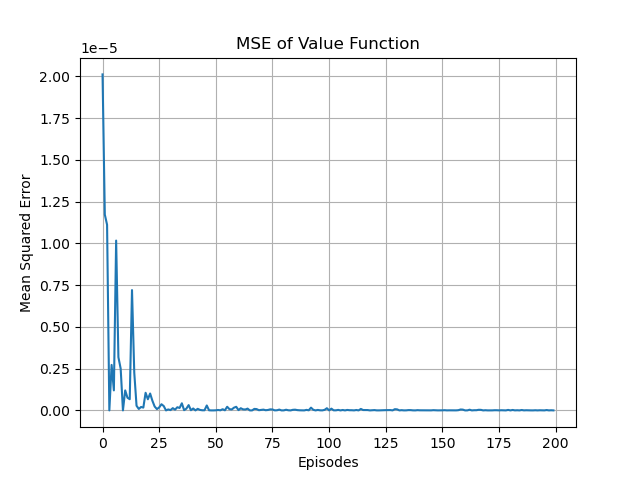
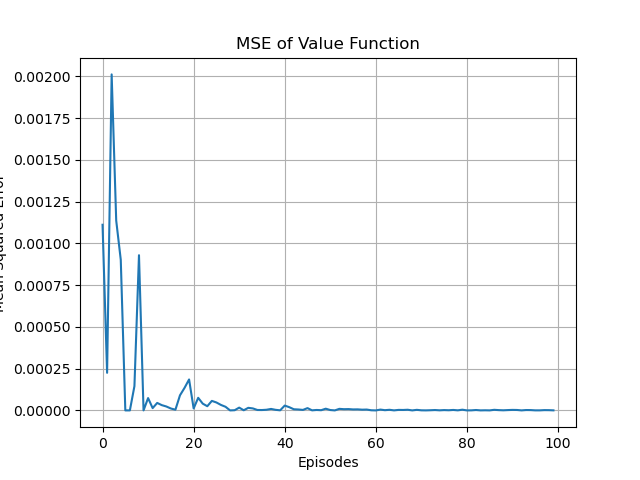
Implementation of Monte Carlo methods

diff --git a/Monte_Carlo/n_step_MC.py b/Monte_Carlo/n_step_MC.py
@@ -4,21 +4,23 @@ import random
 import os
 
 """
-Implementation of First-Visit Monte Carlo
-This method estimates value function using sample returns from the full episodes.
-It considers only first time a state 's' is visitited in an episode for updating the value function
+Implementation of N-Step Monte Carlo
+It doesn't wait for the entire episode like MC (Monte Carlo) or just the next step like TD (Temporal Difference),
+it updates after N steps.
 
-For each state, it computes G (sum of discounted rewards from that point onwards)
-It updates V(s) by taking average of all first visit returns.
+Some cases
+if N == 1   -> 1-step TD Learning
+if N -> inf -> MonteCarlo 
 
-Drawbacks: Ignore extra info when states are visited multiple times,
-           Requires full episodes.
+Drawbacks: Tuning of N, tradeoff between bias and variance,
+           smaller N -> more bias, less variance
+           larger  N -> less bias, more variance 
 """
 
 os.makedirs("Monte_Carlo/Results", exist_ok=True)
 
-class FirstVisitMcPredection:
-    def __init__(self, pi=None, gamma=0.9):
+class NStepMcPredection:
+    def __init__(self, pi=None, gamma=0.9, alpha=0.1, n=7):
         self.state_space = [(i, j) for i in range(3) for j in range(3)]
         self.rewards = {(0,2): 1, (2,2):-1}
         self.val_pi_s = {s: self.rewards.get(s, 0) for s in self.state_space}
@@ -32,6 +34,9 @@ class FirstVisitMcPredection:
         }
         
         self.mse_lst = [] 
+        
+        self.alpha = alpha
+        self.n = n
 
         
 
@@ -73,21 +78,26 @@ class FirstVisitMcPredection:
             state = next_state
     
     def monte_carlo(self):
-        epsiode_lst = list(reversed(self.episode_list))
         
-        G = 0
-        visited_states = set()
-        alpha = 0.1
-        
-        for state, _, reward in epsiode_lst:
-            G = self.gamma * G + reward
+        ep_len = len(self.episode_list)
+        for t in range(ep_len):
+            G = 0
+            n_step = min(self.n, ep_len - t)
             
-            if state not in visited_states and state not in self.rewards:
-                self.num_visits[state] += 1
-                self.val_pi_s[state] += alpha * (G - self.val_pi_s[state]) / self.num_visits[state]
-                visited_states.add(state)
+            for i in range(n_step):
+                _, _, reward = self.episode_list[t + i]
+                G += (self.gamma ** i) * reward
                 
+            if t + self.n < ep_len:
+                G += (self.gamma ** self.n) * self.val_pi_s[self.episode_list[t+self.n][0]]
+                    
+            state, _, _ = self.episode_list[t]
             
+            if state not in self.rewards:
+                self.num_visits[state] += 1
+                self.val_pi_s[state] += (G - self.val_pi_s[state]) / self.num_visits[state]
+                
+        
     def train(self, num_episodes=100):    ## You can increase number of episodes
         
         for i in range(num_episodes):
@@ -111,7 +121,7 @@ class FirstVisitMcPredection:
         plt.ylabel("Mean Squared Error")
         plt.title("MSE of Value Function")
         plt.grid()
-        plt.savefig("Monte_Carlo/Results/first_visit_mc_mse.png") 
+        plt.savefig("Monte_Carlo/Results/n_steps_mc_mse.png") 
         plt.show()
         
         val_mat = np.zeros((3,3)) 
@@ -126,10 +136,10 @@ class FirstVisitMcPredection:
                 
         plt.colorbar(label="State Value")
         plt.title("Final Value Function Heatmap")
-        plt.savefig("Monte_Carlo/Results/first_visit_mc_heat_map.png") 
+        plt.savefig("Monte_Carlo/Results/n_step_mc_heat_map.png") 
         plt.show()
 
 
-alpha = FirstVisitMcPredection()
+alpha = NStepMcPredection()
 alpha.train()
 alpha.plot_res()
